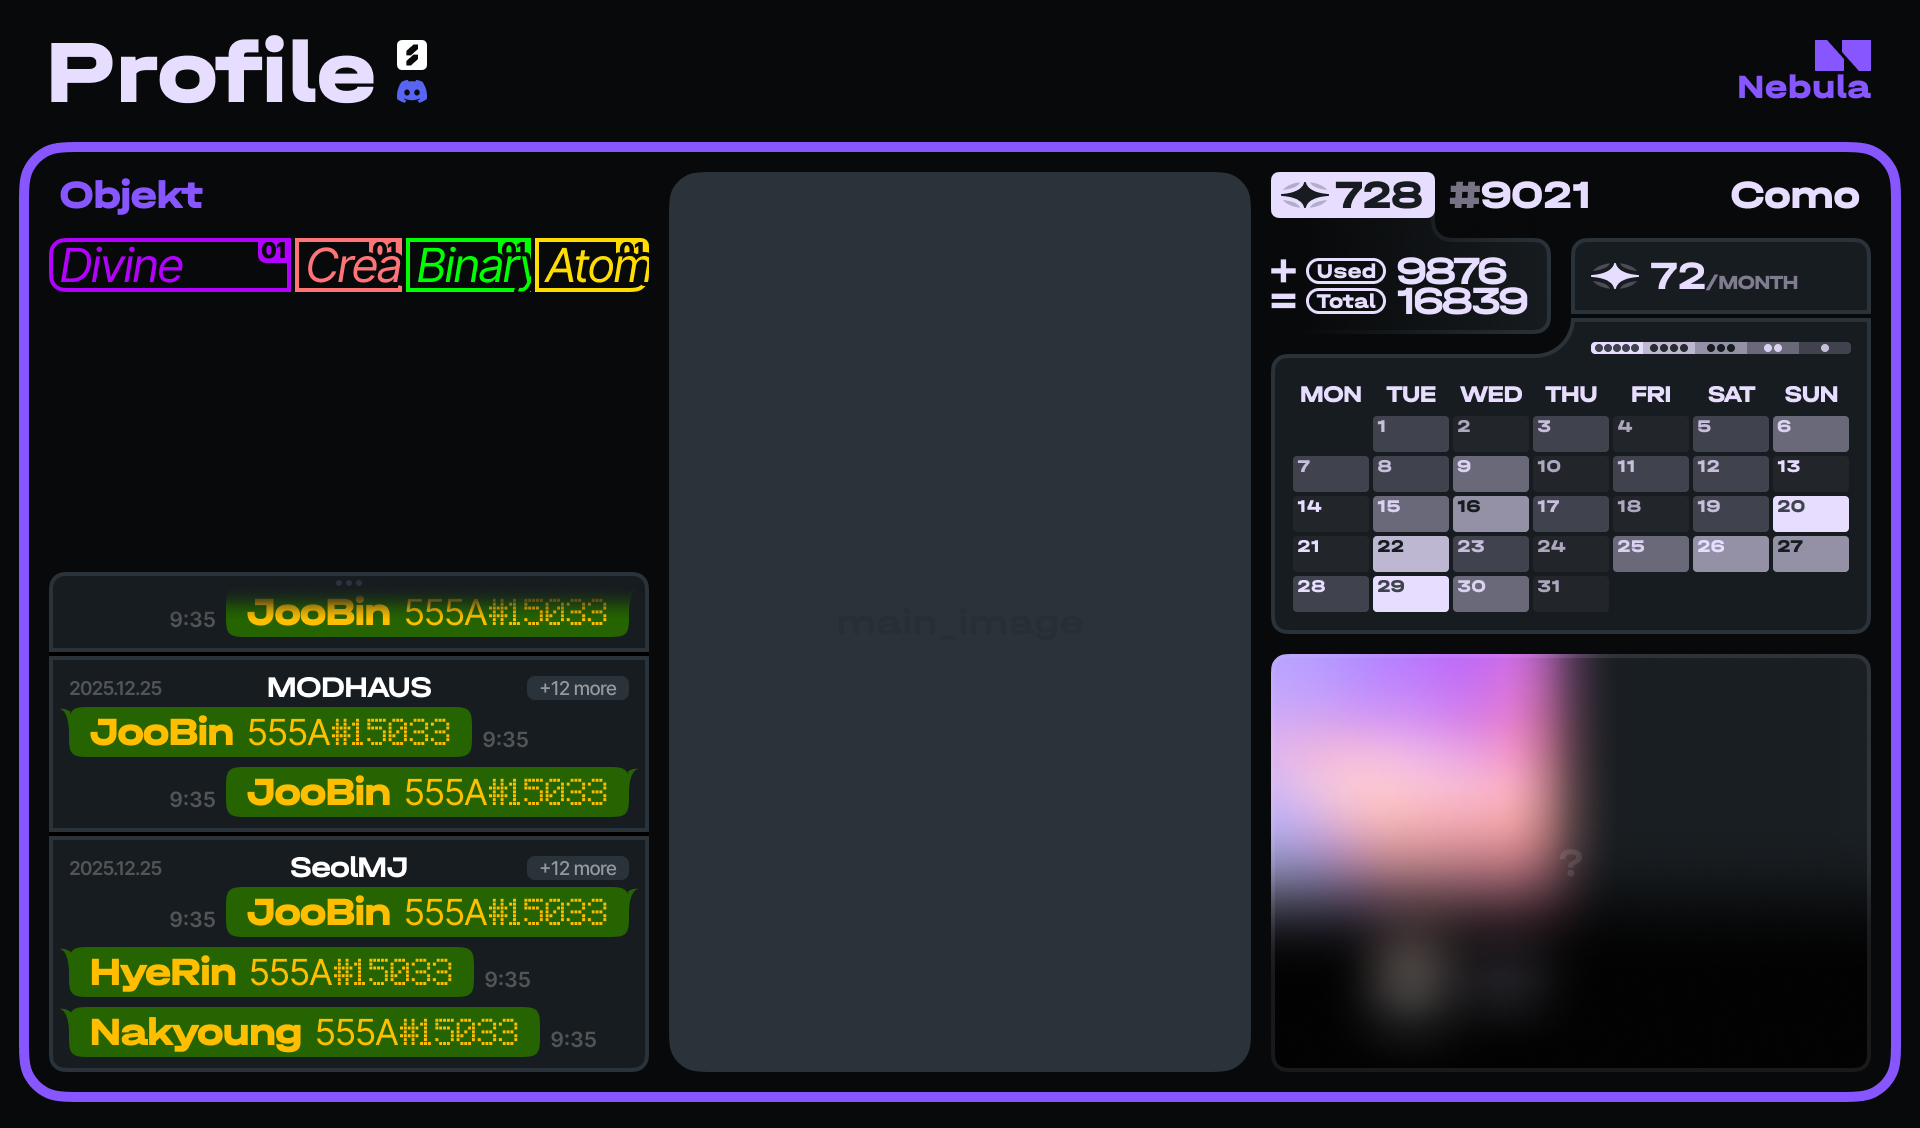
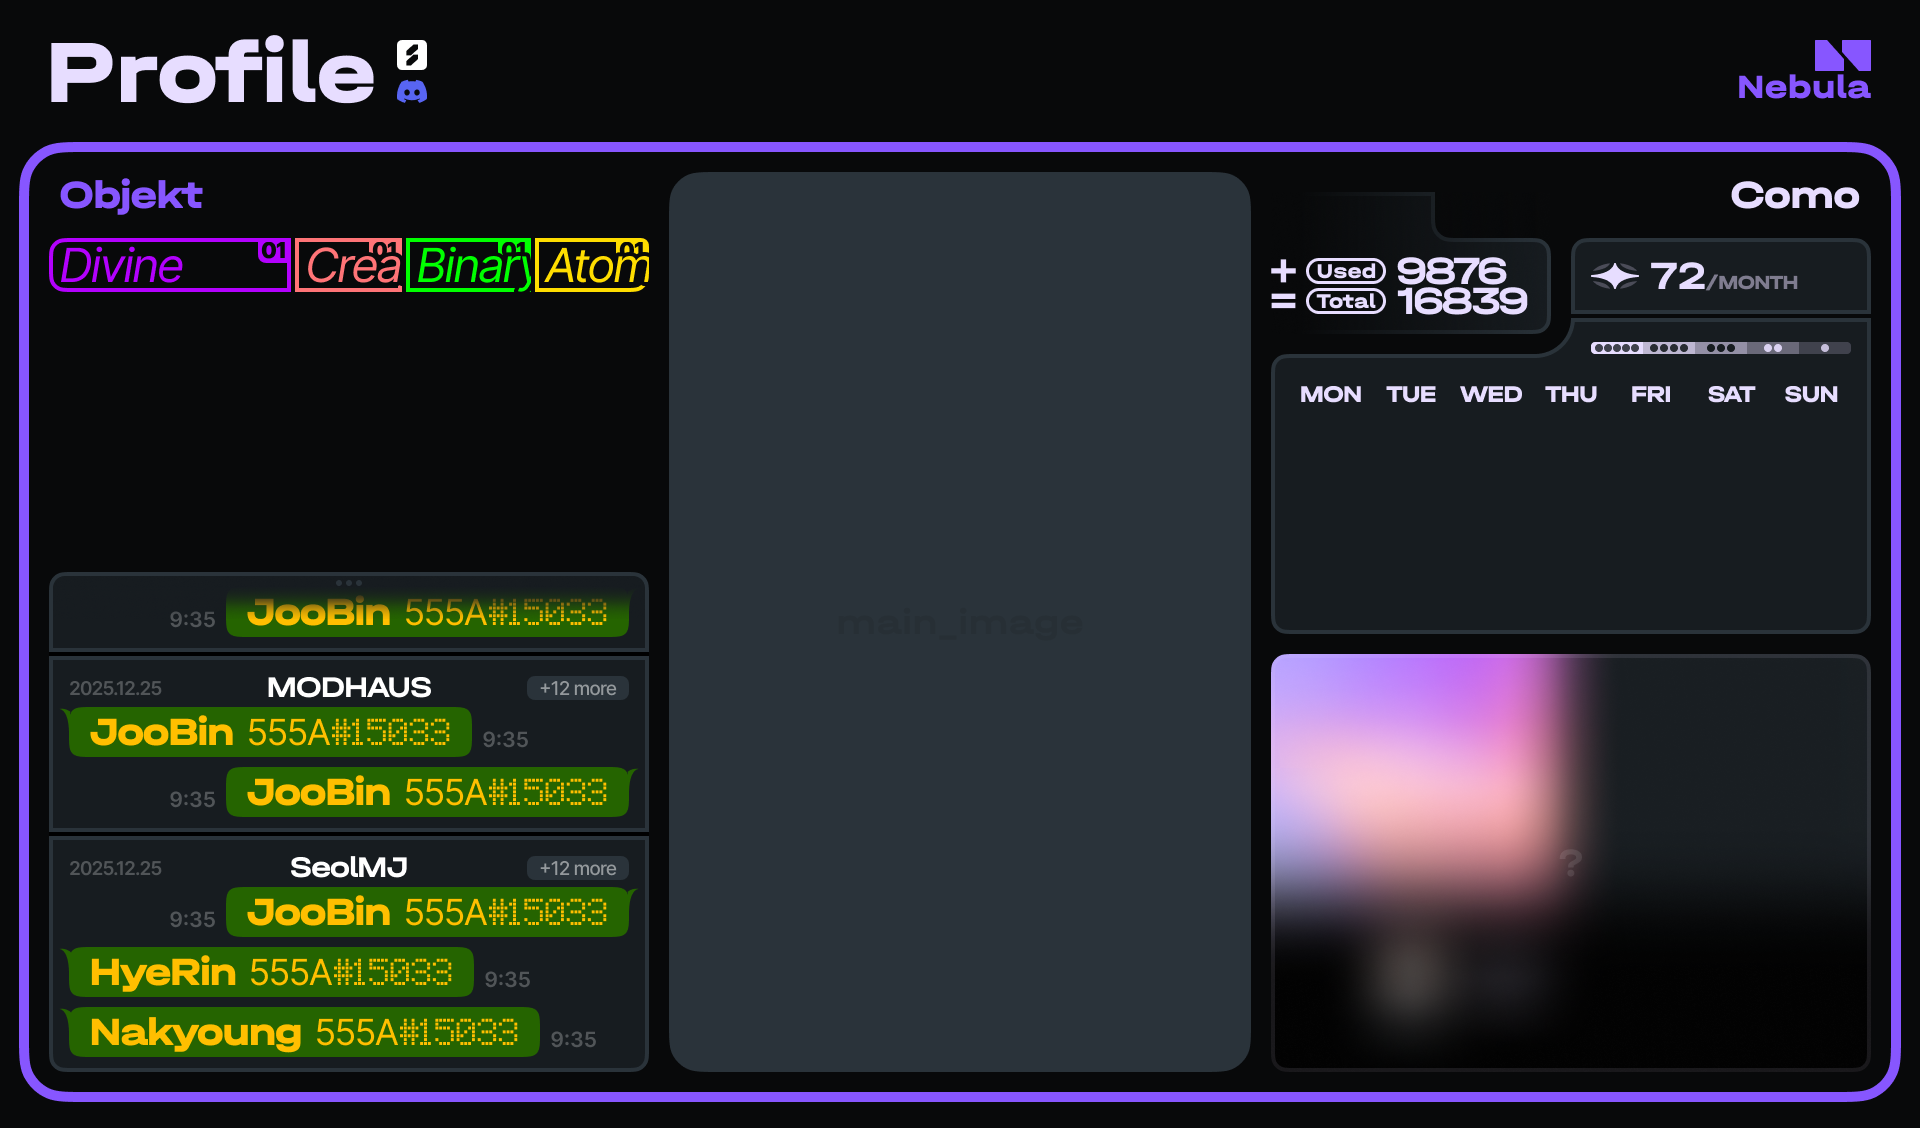
como calendar

Changed region(s): [[0.6562, 0.3413, 0.9688, 0.5585], [0.6562, 0.1551, 0.8438, 0.2172]]

diff --git a/bot_core/commands/profile/image_maker/como_calendar/como_calendar.py b/bot_core/commands/profile/image_maker/como_calendar/como_calendar.py
@@ -1,0 +1,72 @@
+
+from pathlib import Path
+
+from PIL import Image, ImageDraw
+from datetime import datetime
+from zoneinfo import ZoneInfo
+from utils import text_draw
+from config import month_end, month_start, calender_colors
+
+
+BASE_DIR = Path(__file__).resolve().parent
+
+
+def como_calendar(data_count):
+
+
+    x = 7  # Number of columns (days in a week)
+    y = 5  # Number of rows (weeks in a month)
+
+    # Load the day mask image
+    day_mask = Image.open(f'{BASE_DIR}/resources/box.png')
+    base = Image.new('RGBA', (day_mask.size[0] * x, day_mask.size[1] * y), (0, 0, 0, 0))
+
+
+    # Set timezone to Asia/Seoul
+    korean_timezone = ZoneInfo('Asia/Seoul')
+    now_korean = datetime.now(korean_timezone)
+    current_month = now_korean.month
+    month_current = current_month
+
+
+
+    days_in_month = month_end[month_current - 1]
+
+    # Adjust data_count for days beyond the current month's end
+    total_to_add = 0
+    for day in list(data_count.keys()):
+        if day > days_in_month:
+            total_to_add += data_count[day]
+            del data_count[day]
+
+    if total_to_add > 0:
+        data_count[days_in_month] = data_count.get(days_in_month, 0) + total_to_add
+
+    # Generate the calendar image
+    for row in range(y):
+        for col in range(x):
+            day_count = col + x * row + 1 - month_start[month_current - 1] + 2
+            if day_count <= 0 or day_count > days_in_month:
+                continue
+
+            count = data_count.get(day_count, 0)
+            rgb, rgb_txt = calender_colors[min(count, 5)]
+
+            # Calculate the top-left corner of the day's box
+            top_left = (col * day_mask.size[0], row * day_mask.size[1])
+            day = Image.new('RGBA', day_mask.size, rgb)
+            draw = ImageDraw.Draw(day)
+
+            # Draw the day number
+            text_draw(draw, (4, 5), 'HalvarBreit-XBd.ttf', 18, str(day_count), rgb_txt)
+
+            # Paste the day image onto the base image
+            base.paste(day, top_left, day_mask)
+
+    return base
+
+if __name__ == "__main__":
+    #data_count = {29: 5, 11: 1, 23: 1, 7: 1, 5: 1, 6: 2, 12: 1, 16: 3, 26: 3, 27: 3, 15: 2, 17: 1, 19: 1, 20: 5, 8: 1, 9: 2, 22: 3, 25: 2, 3: 1, 30: 2, 1: 1}
+    data_count = {1: 1, 3: 1, 4: 1, 7: 1, 9: 1, 11: 1, 12: 2, 13: 1, 17: 1, 19: 1, 20: 1, 21: 1, 23: 2, 24: 2, 26: 2, 29: 2, 30: 2}
+
+    como_calendar(data_count).show()

diff --git a/bot_core/commands/profile/make.py b/bot_core/commands/profile/make.py
@@ -4,7 +4,7 @@ from pathlib import Path
 from PIL import Image
 from PIL.ImageDraw import ImageDraw
 import fetch
-from image_maker import member_rank, nameplate, icon_number_box
+from image_maker import member_rank, nameplate, icon_number_box, como_calendar
 from utils import paste_correctly, text_draw, round_square, text_size
 
 BASE_DIR = Path(__file__).resolve().parent
@@ -17,20 +17,35 @@ async def image_maker(address, artist, cosmo_id, discord_id = None):
 
     data['stats'] =  await fetch.stats(address, artist)
     data['date'] = await fetch.singup_date(address, artist)
+    data['como_count'], data['como_calendar'] = await fetch.como(address, artist)
 
     base = nameplate(base, cosmo_id, discord_id, data['date'])
 
     if data.get('stats'):
         images['member_rank'] = member_rank(data['stats'])
 
-    if images.get('member_rank'):
-        base = paste_correctly(base, (49, 312), images['member_rank'])
+        if images.get('member_rank'):
+            base = paste_correctly(base, (49, 312), images['member_rank'])
 
 
-    images['objekt_count'] = icon_number_box('objekt', data['stats']['total'])
-    if images.get('objekt_count'):
-        base = paste_correctly(base, (649-images['objekt_count'].size[0], 172), images['objekt_count'])
+    if data.get('stats').get('total'):
+        images['objekt_count'] = icon_number_box('objekt', data['stats']['total'])
 
+        if images.get('objekt_count'):
+            base = paste_correctly(base, (649-images['objekt_count'].size[0], 172), images['objekt_count'])
+
+
+    if data.get('como_count'):
+        images['como_count'] = icon_number_box(f'como_{artist.lower()}', data['como_count'])
+
+        if images.get('como_count'):
+            base = paste_correctly(base, (1271, 172), images['como_count'])
+
+    if data.get('como_calendar'):
+        images['calendar'] = como_calendar(data['como_calendar'])
+
+        if images.get('calendar'):
+            base = paste_correctly(base, (1291, 414), images['calendar'])
 
     base = paste_correctly(base, (1220, 96), Image.open(f"{BASE_DIR}/resources/bookmark/{artist.lower()}.png"))
 

diff --git a/bot_core/commands/profile/fetch/como.py b/bot_core/commands/profile/fetch/como.py
@@ -1,0 +1,45 @@
+import asyncio
+import os
+from pathlib import Path
+from pprint import pprint
+
+import aiohttp
+
+from config import objekt_contract
+
+
+
+
+apollo_api = os.getenv('apollo_api')
+AUTH_TOKEN = apollo_api
+
+
+async def como(address: str, artist: str):
+    base_url = f'https://apollo.cafe/api/user/by-address/{address}/como'
+
+    url = f"{base_url}"
+    headers = {
+        'Authorization': AUTH_TOKEN
+    }
+    async with aiohttp.ClientSession() as session:
+        async with session.get(url, headers=headers) as response:
+            if response.status == 200:  # Request successful
+                result = await response.json()
+                new_dict = {}
+
+                for i in result:
+                    for k in range(len(list(result[i].keys()))):
+
+                        if list(result[i].keys())[k] == objekt_contract[artist.lower()].lower():
+                            new_dict[int(i)] = result[i][objekt_contract[artist.lower()].lower()]['count']
+
+                return sum(new_dict.values()), new_dict
+
+            else:  # Request failed
+                print(
+                    f"Failed request: Status {response.status}, Response: {await response.text()}")  # Debug: Print the error
+                return None
+
+
+if __name__ == '__main__':
+    asyncio.run(como('0xeb3c27b01226271306cd29445790bc56b5e76eec', 'ARTMS'))

diff --git a/config.py b/config.py
@@ -55,3 +55,22 @@ member_color = {
     'none': (0,0,0),
     'idntt': (37, 52, 124)
 }
+
+
+objekt_contract = {
+    'triples': "0xA4B37bE40F7b231Ee9574c4b16b7DDb7EAcDC99B",
+    'artms': '0x0fB69F54bA90f17578a59823E09e5a1f8F3FA200',
+    'idntt': '0x0000000000000000000000000000000000000000'
+}
+
+
+calender_colors = {                                  # 꼬모수: [배경색, 글자색]
+    0: [(34,  38,  43),  (231, 221, 255)],  # '#22262B', '#E7DDFF'
+    1: [(72,  70,  77),  (199, 191, 219)],  # '#48464D', '#C7BFDB'
+    2: [(112, 108, 122), (219, 210, 241)],  # '#706C7A', '#DBD2F1'
+    3: [(152, 146, 166), (23,  28,  32)],   # '#9892A6', '#171C20'
+    4: [(192, 184, 211), (41,  44,  51)],   # '#C0B8D3', '#292C33'
+    5: [(231, 221, 255), (64,  66,  77)],   # '#E7DDFF', '#40424D'
+}
+month_start = [4,7,7,3,5,1,3,6,2,4,7,2] #2025
+month_end = [31,28,31,30,31,30,31,31,30,31,30,31]

diff --git a/bot_core/commands/profile/fetch/signup_date.py b/bot_core/commands/profile/fetch/signup_date.py
@@ -20,6 +20,7 @@ async def singup_date(address: str, artist):
         async with session.get(url) as response:
             if response.status == 200:  # Request successful
                 result = await response.json()
+                #print(result)
                 return result['objekts'][0]['receivedAt'].split('T')[0]
             else:  # Request failed
                 print(
@@ -28,4 +29,4 @@ async def singup_date(address: str, artist):
 
 
 if __name__ == '__main__':
-    asyncio.run(singup_date('0xAcb9f541D5F3A585500434f8A1D70864553415E7', 'triples'))
+    asyncio.run(singup_date('0xAcb9f541D5F3A585500434f8A1D70864553415E7', 'idntt'))

diff --git a/bot_core/commands/profile/fetch/stats.py b/bot_core/commands/profile/fetch/stats.py
@@ -75,4 +75,4 @@ def normalize_counts_integer(data):
 
 
 if __name__ == '__main__':
-    asyncio.run(get_stats('0xAcb9f541D5F3A585500434f8A1D70864553415E7', 'tripleS'))
+    asyncio.run(stats('0xAcb9f541D5F3A585500434f8A1D70864553415E7', 'tripleS'))

diff --git a/bot_core/commands/profile/image_maker/__init__.py b/bot_core/commands/profile/image_maker/__init__.py
@@ -1,3 +1,4 @@
 from .member_rank.member_rank import member_rank
 from .nameplate.nameplate import nameplate
 from .icon_number_box.icon_number_box import icon_number_box
+from .como_calendar.como_calendar import como_calendar

diff --git a/bot_core/commands/profile/fetch/__init__.py b/bot_core/commands/profile/fetch/__init__.py
@@ -1,2 +1,3 @@
 from .stats import stats
 from .signup_date import singup_date
+from .como import como
